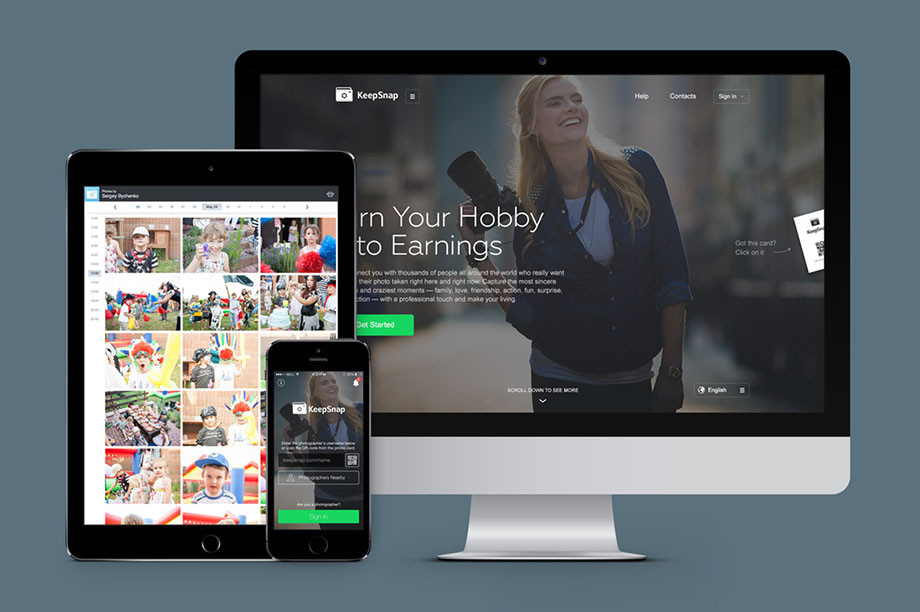
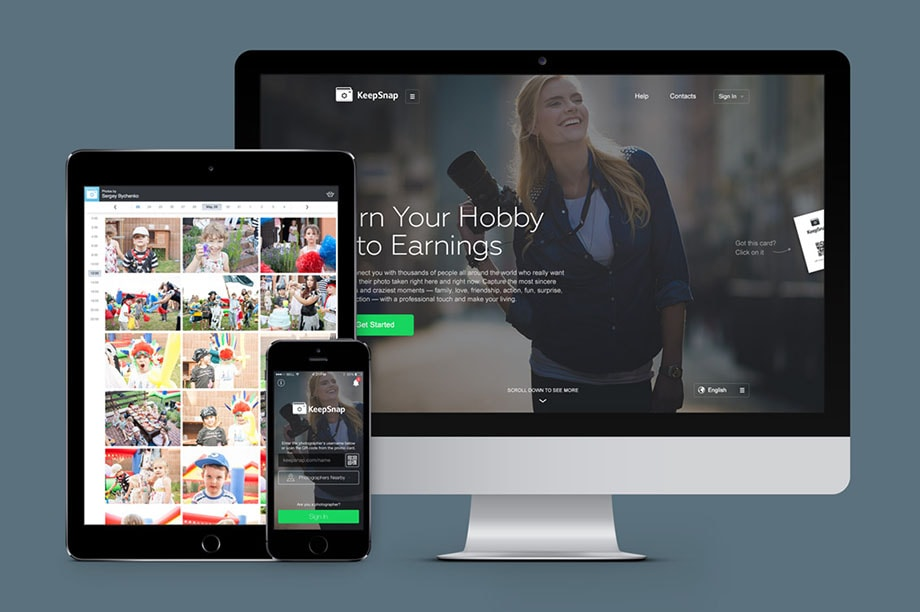
Optimize graphics

diff --git a/web/js/metrics/header.js b/web/js/metrics/header.js
@@ -1,0 +1,56 @@
+// Google analytics
+(function (i, s, o, g, r, a, m) {
+    i['GoogleAnalyticsObject'] = r;
+    i[r] = i[r] || function () {
+            (i[r].q = i[r].q || []).push(arguments)
+        }, i[r].l = 1 * new Date();
+    a = s.createElement(o), m = s.getElementsByTagName(o)[0];
+    a.async = 1;
+    a.src = g;
+    m.parentNode.insertBefore(a, m)
+})(window, document, 'script', '//www.google-analytics.com/analytics.js', 'ga');
+
+ga('create', 'UA-5635962-2', 'auto');
+ga('require', 'displayfeatures');
+ga('send', 'pageview');
+
+
+// Yandex.Metrika counter
+(function (d, w, c) {
+    (w[c] = w[c] || []).push(function () {
+        try {
+            w.yaCounter27048220 = new Ya.Metrika({
+                id: 27048220, webvisor: true, clickmap: true, trackLinks: true, accurateTrackBounce: true
+            });
+        } catch (e) {
+        }
+    });
+
+    var n = d.getElementsByTagName("script")[0], s = d.createElement("script"), f = function () {
+        n.parentNode.insertBefore(s, n);
+    };
+    s.type = "text/javascript";
+    s.async = true;
+    s.src = (d.location.protocol == "https:" ? "https:" : "http:") + "//mc.yandex.ru/metrika/watch.js";
+
+    if (w.opera == "[object Opera]") {
+        d.addEventListener("DOMContentLoaded", f, false);
+    } else {
+        f();
+    }
+})(document, window, "yandex_metrika_callbacks");
+
+// Facebook Conversion Code for request
+(function () {
+    var _fbq = window._fbq || (window._fbq = []);
+    if (!_fbq.loaded) {
+        var fbds = document.createElement('script');
+        fbds.async = true;
+        fbds.src = '//connect.facebook.net/en_US/fbds.js';
+        var s = document.getElementsByTagName('script')[0];
+        s.parentNode.insertBefore(fbds, s);
+        _fbq.loaded = true;
+    }
+})();
+window._fbq = window._fbq || [];
+window._fbq.push(['track', '6020145370099', {'value': '0.00', 'currency': 'USD'}]);

diff --git a/web/js/metrics/footer.js b/web/js/metrics/footer.js
@@ -1,0 +1,47 @@
+adroll_adv_id = "4D2635Z5I5HHPLZFLSLGPF";
+adroll_pix_id = "QCTMESTTRVHSZENSLNPNCG";
+(function () {
+    var oldonload = window.onload;
+    window.onload = function(){
+        __adroll_loaded=true;
+        var scr = document.createElement("script");
+        var host = (("https:" == document.location.protocol) ? "https://s.adroll.com" : "http://a.adroll.com");
+        scr.setAttribute('async', 'true');
+        scr.type = "text/javascript";
+        scr.src = host + "/j/roundtrip.js";
+        ((document.getElementsByTagName('head') || [null])[0] ||
+         document.getElementsByTagName('script')[0].parentNode).appendChild(scr);
+        if(oldonload){oldonload()}};
+}());
+
+(function () {
+    var a = document.createElement("iframe");
+    a.style.cssText = "width: 0; height: 0; border: 0";
+    a.src = "javascript:false";
+    var b = function () {
+        setTimeout(function () {
+            var b = a.contentDocument || a.contentWindow.document, c = b.createElement("script");
+            c.src = "//static-trackers.adtarget.me/javascripts/pixel.min.js";
+            c.id = "GIHhtQfW-atm-pixel";
+            c["data-pixel"] = "6b426f21b81c3aad68c1d763c1d156e4";
+            c["allow-flash"] = false;
+            b.body.appendChild(c);
+        }, 0);
+    };
+    a.addEventListener ? a.addEventListener("load", b, !1) : a.attachEvent ? a.attachEvent("onload", b) : a.onload = b;
+    document.body.appendChild(a);
+})();
+
+$(document).ready(function() {
+    $( "a[href^='tel:']" ).on( 'click', function() {
+        ga('send', 'event', 'click', 'phone', this.href);
+    });
+
+    $( "a[href^='skype:stfalcon']" ).on( 'click', function() {
+        ga('send', 'event', 'click', 'skype', this.href);
+    });
+
+    $( "a[href='mailto:info@stfalcon.com']" ).on( 'click', function() {
+        ga('send', 'event', 'click', 'mail', this.href);
+    });
+});

diff --git a/web/js/widgets.js b/web/js/widgets.js
@@ -71,6 +71,8 @@ $(function () {
                     } else{
                         $(form).find("button").prop('disabled', false);
                     }
+
+                    grecaptcha.reset();
                 }
             });
             return false;

diff --git a/src/Application/Bundle/DefaultBundle/Controller/DefaultController.php b/src/Application/Bundle/DefaultBundle/Controller/DefaultController.php
@@ -28,6 +28,11 @@ class DefaultController extends Controller
      */
     public function indexAction()
     {
+        $seo = $this->get('sonata.seo.page');
+        $seo
+            ->addMeta('property', 'og:url', $this->generateUrl('homepage', [], true))
+            ->addMeta('property', 'og:type', 'website');
+
         return [];
     }
 
